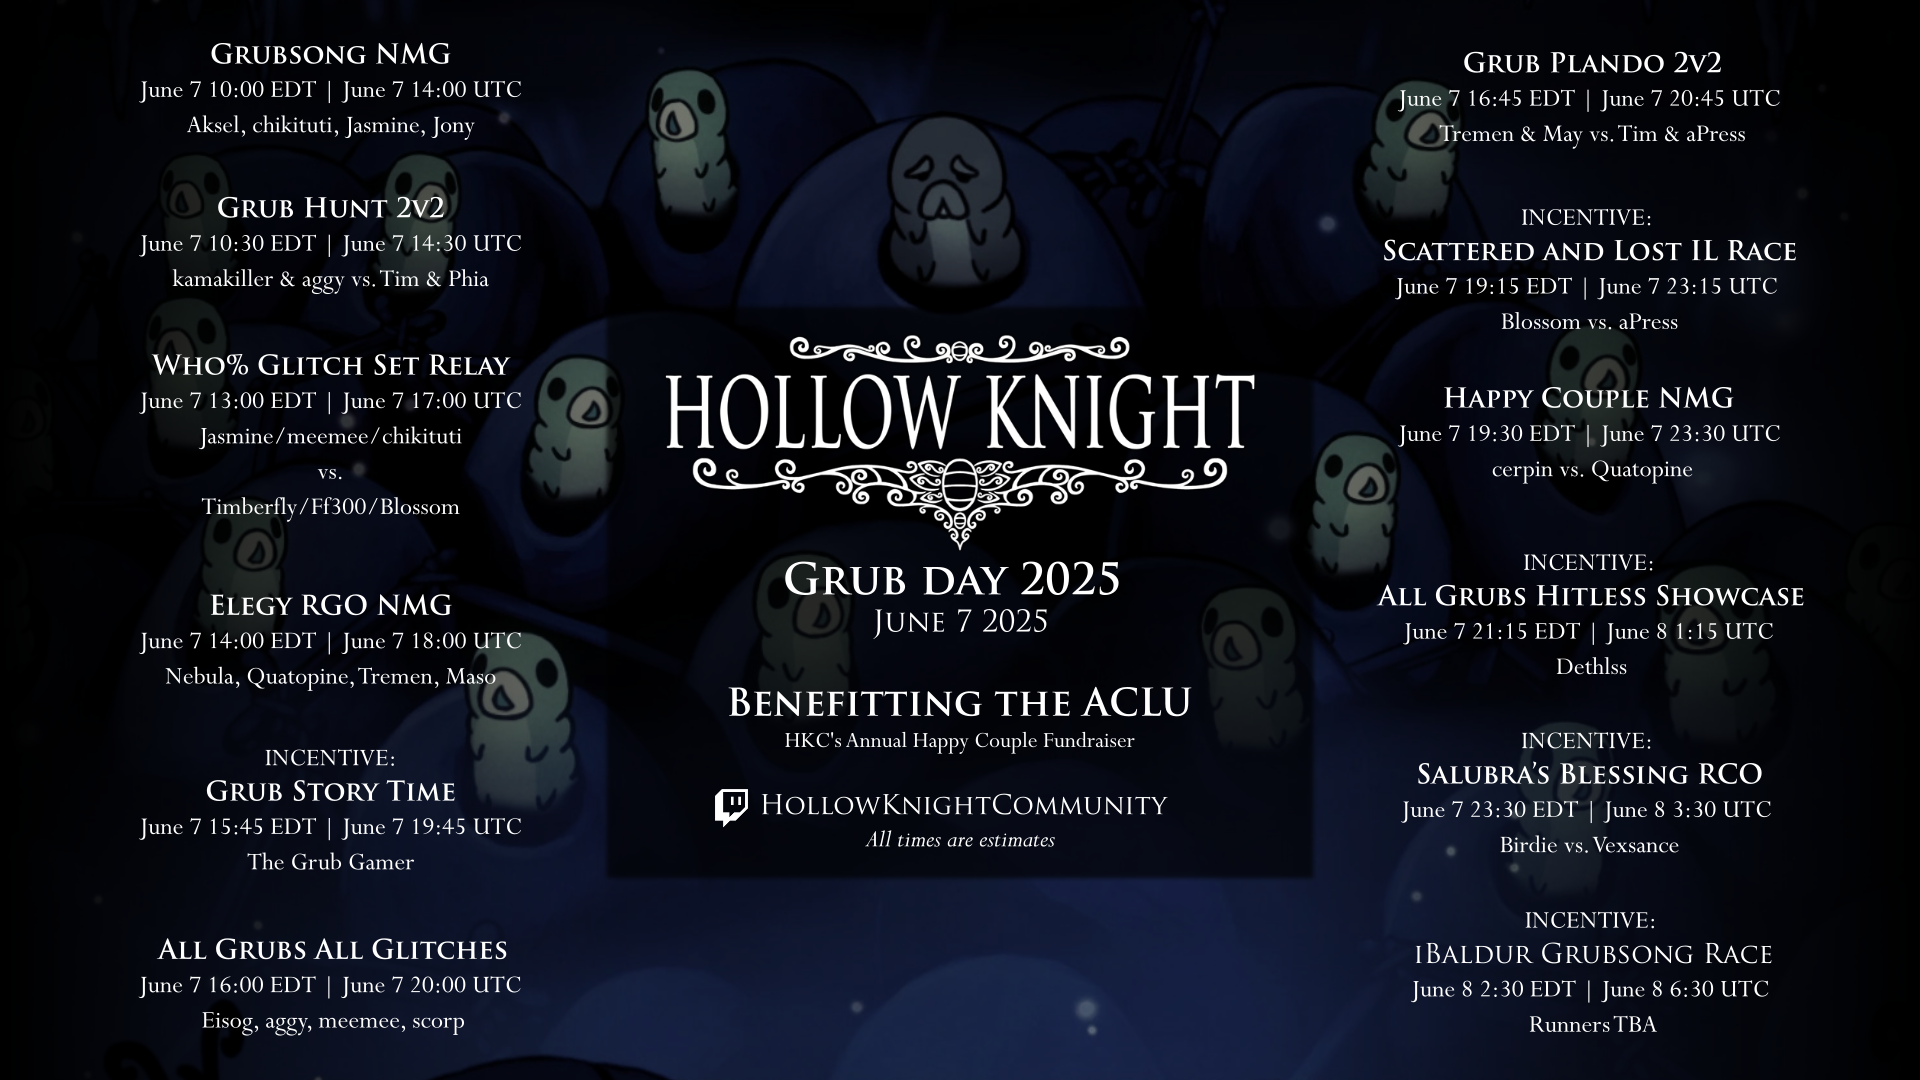
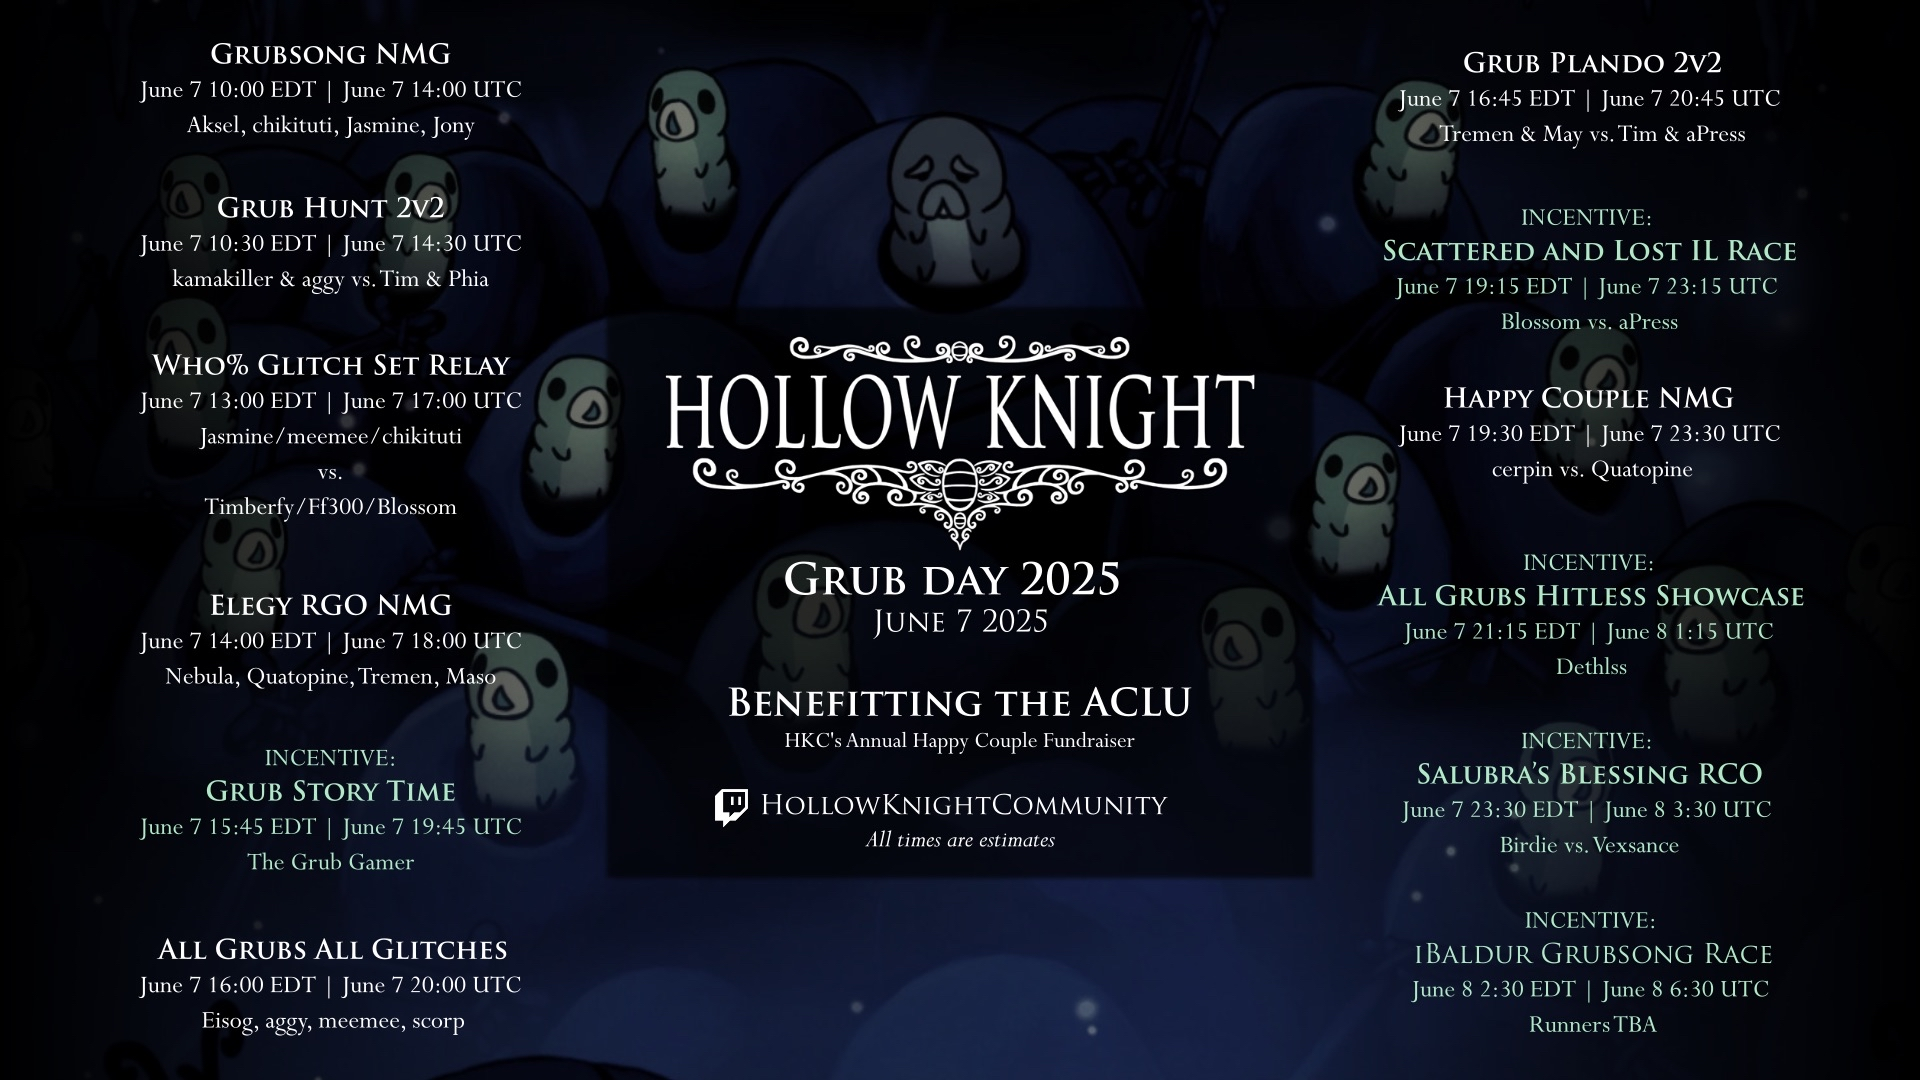
update grub-a-thon squedules for hopefully the last time

diff --git a/events/grubathon2025.html b/events/grubathon2025.html
@@ -138,13 +138,13 @@
                 <td>10:30am EDT</td>
                 <td>2v2 Grub Hunt Rando</td>
                 <td>Runners: kamakiller, Tim, Phia, aggy</td>
-                <td>Comms: Azerod. May</td>
+                <td>Comms: Azerod, May</td>
               </tr>
               <tr>
                 <td>5:00pm UTC</td>
                 <td>1:00pm EDT</td>
                 <td>Who% Glitch Set Relay Race</td>
-                <td>Runners: Timberfy, Jasmine, ff300, meemee, Blossom, chiki</td>
+                <td>Runners: Slyzian, Jasmine, ff300, meemee, Blossom, chiki</td>
                 <td>Comms: Jony, aPress</td>
               </tr>
               <tr>
@@ -187,7 +187,7 @@
                 <td>11:30pm UTC</td>
                 <td>7:30pm EDT</td>
                 <td>Happy Couple NMG</td>
-                <td>Runners: Fruno, cerpin</td>
+                <td>Runners: cerpin, Quatopine</td>
                 <td>Comms: oatmille, krysanthemoof</td>
               </tr>
               <tr>
@@ -202,14 +202,14 @@
                 <td>10:30pm EDT</td>
                 <td><strong>**INCENTIVE**</strong> Salubra’s Blessing Random Charm Order Showcase</td>
                 <td>Runners: Birdie, Vexsance</td>
-                <td>Comms: TheMasochistGamer</td>
+                <td>Comms: TheMasochistGamer, May</td>
               </tr>
               <tr>
                 <td>6:30am UTC</td>
                 <td>2:30am EDT</td>
                 <td><strong>**INCENTIVE**</strong> iBaldur Grubsong Race</td>
-                <td>Runners: TBA</td>
-                <td>Comms: TBA</td>
+                <td>Runners: NerfIrelia73, Vexsance</td>
+                <td>Comms: Ax, Marcus</td>
               </tr>
             </table>
           </div>

diff --git a/eventsnav.html b/eventsnav.html
@@ -38,7 +38,7 @@
             <td class="hksceventstableheader-2">Marathon Events</td>
           </tr>
           <tr>
-            <td><a href="/events/grubathon2025">Grub-a-Thon 2025</a> (Upcoming!)</td>
+            <td><a href="/events/grubathon2025">Grub-a-Thon 2025</a> (Ongoing)</td>
           </tr>
           <tr>
             <td><a href="/events/grubathon2024">Grub-a-Thon 2024</a></td>
